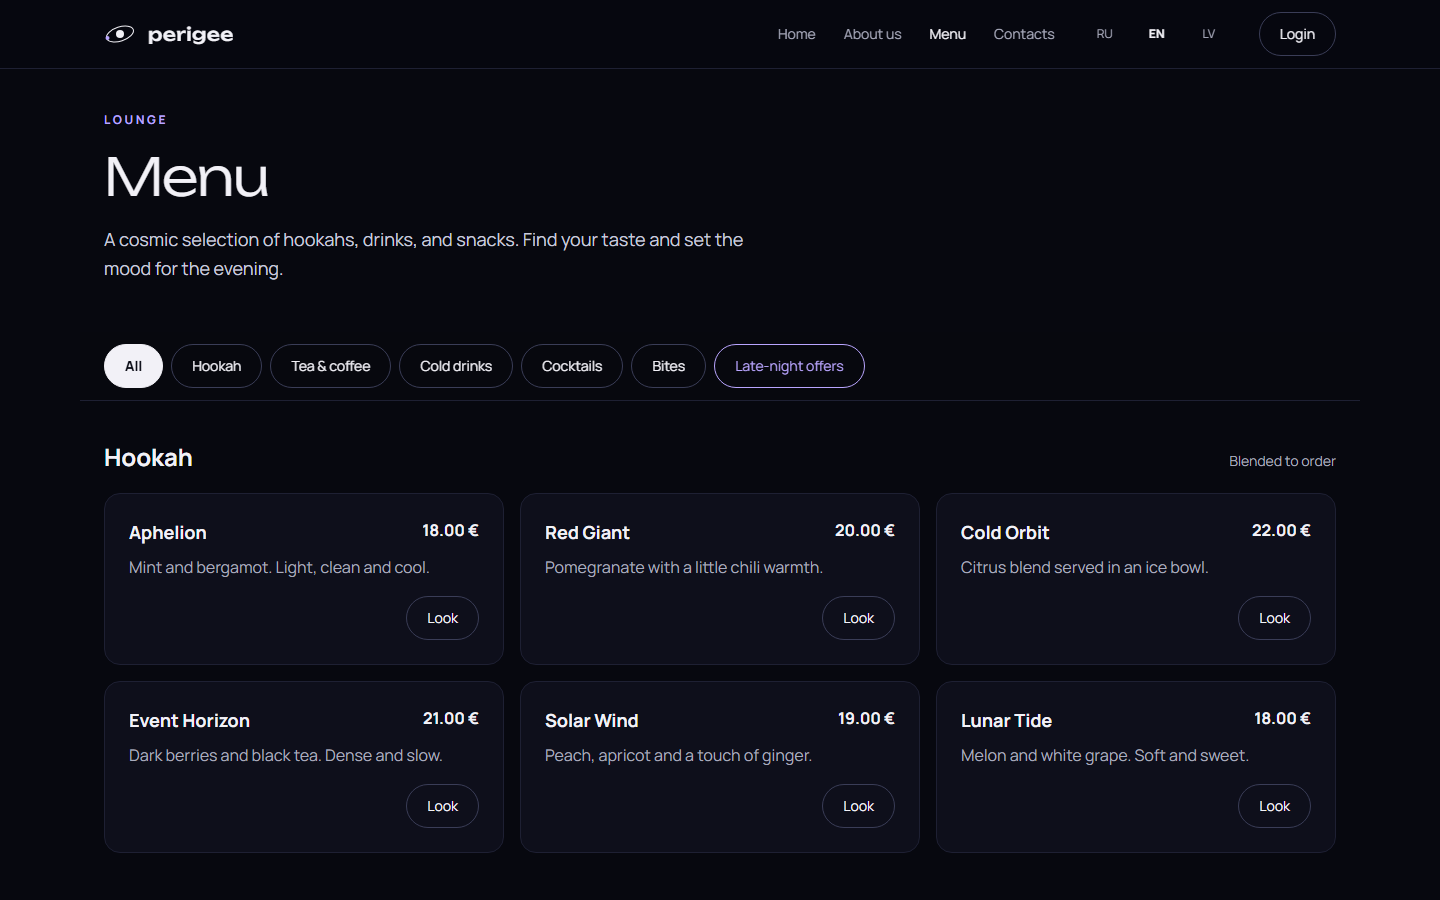
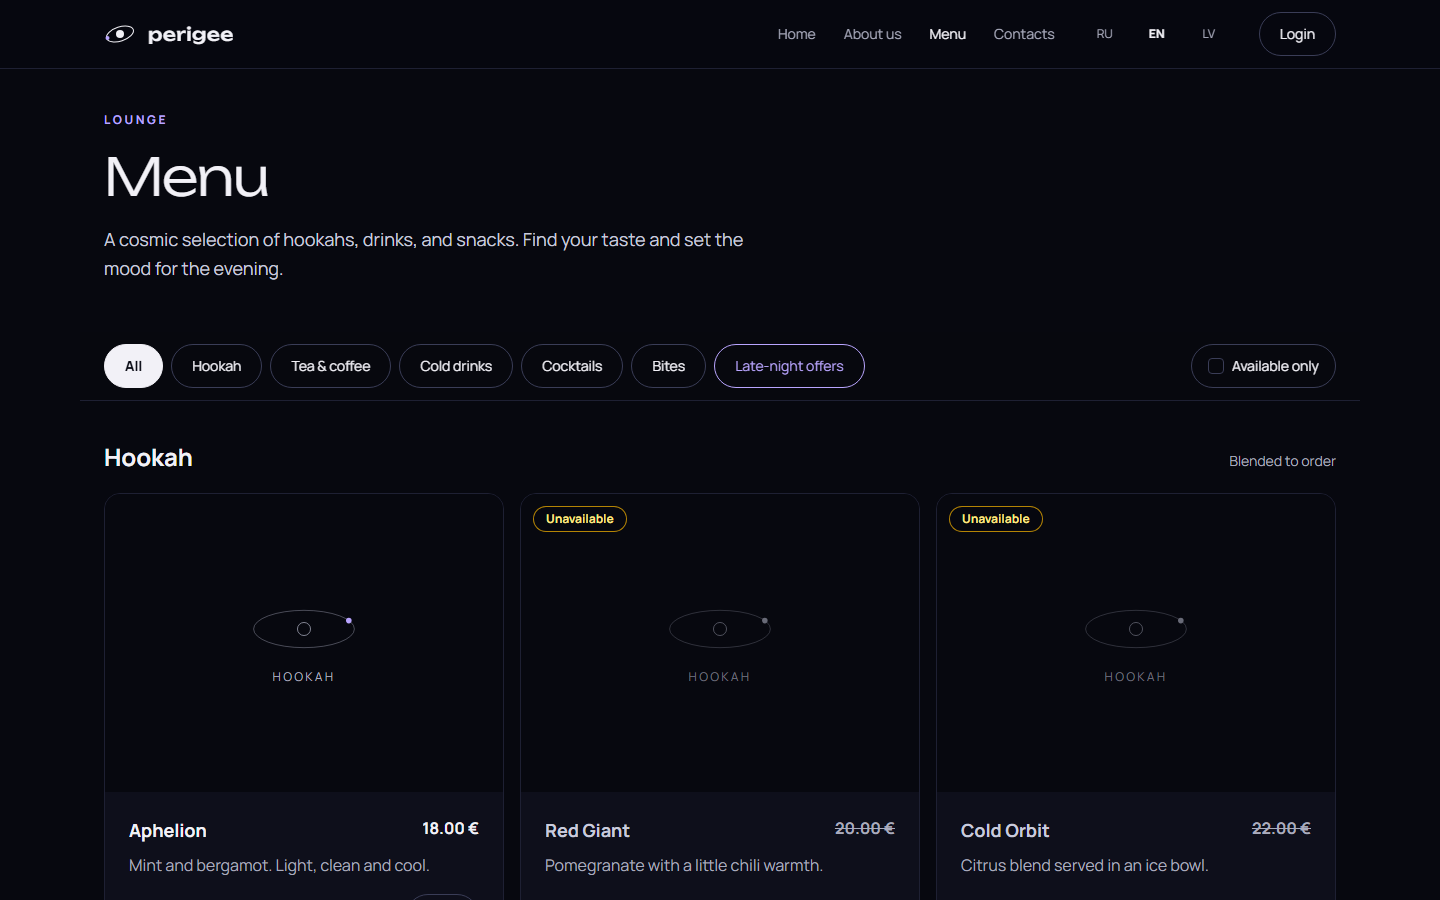
Add order history filters, menu photos and availability to the README

diff --git a/README.md b/README.md
@@ -9,18 +9,23 @@ A website and management system for a fictional hookah lounge. Guests browse the
 | Menu | Table ordering on a phone | Staff reservations |
 |---|---|---|
 | ![Menu](docs/screenshots/menu.png) | ![Table ordering](docs/screenshots/table-phone.png) | ![Staff reservations](docs/screenshots/staff-reservations.png) |
+| **Staff order history** | | |
+| ![Staff order history with date and status filters](docs/screenshots/staff-orders.png) | | |
 
 ## Features
 
 **Guests and clients**
 - Public pages and a database-driven menu in three languages, under `/en`, `/lv` and `/ru`
+- Menu photos in a 4:3 frame with a placeholder for items without one, and an available-only filter
 - Table reservations on a floor plan, checked against opening hours and existing bookings
 - QR table ordering with a cart
 - Loyalty balance and promo codes with QR codes
 
 **Staff**
 - Orders, reservations and floor plan
-- Menu management with drag-and-drop sorting and image uploads
+- Order history filtered by date range and status, with pagination
+- Menu management with drag-and-drop sorting and photo uploads, resized into a full-size copy and a thumbnail
+- One-click availability toggles for menu items
 - Promo codes with percent or fixed discounts, limited to a category or item
 - QR scanner for loyalty and promo codes
 
